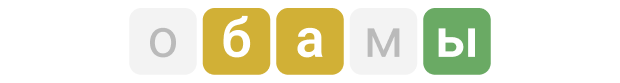
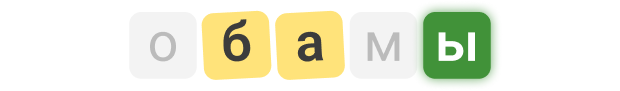
game updates

diff --git a/src/routes/game/data.js b/src/routes/game/data.js
@@ -1,26 +1,32 @@
 export const words = [
   {
     word: 'баллы',
-    desc: 'Проходной балл на бюджетную основу специальности МТИД в 2024 году составил 225 баллов'
+    desc: 'Проходной балл на бюджетную основу специальности МТИД в 2024 году составил 225 баллов',
+    image: '/questions/balls.jpg'
   },
   {
     word: 'дизайн',
-    desc: 'Дизайн - ключевая дисциплина, включающая создание графики, интерфейсов и мультимедийного контента'
+    desc: 'Дизайн — ключевая дисциплина, включающая создание графики, интерфейсов и мультимедийного контента',
+    image: '/questions/design.jpg'
   },
   {
     word: 'сессия',
-    desc: 'Сессия - это период сдачи экзаменов. В ПНИПУ сессия проходит в январе и июне. Успешная сдача экзаменов влияет на стипендию'
+    desc: 'Сессия — это период сдачи экзаменов. В ПНИПУ сессия проходит в январе и июне. Успешная сдача экзаменов влияет на стипендию',
+    image: '/questions/sessia.jpg'
   },
   {
     word: 'куратор',
-    desc: 'Куратор - преподаватель, который помогает студентам в учебном процессе и адаптации'
+    desc: 'Куратор — преподаватель, который помогает студентам в учебном процессе и адаптации',
+    image: '/questions/kurator.jpg'
   },
   {
     word: 'практика',
-    desc: 'Практика - это форма учебной деятельности, которая позволяет студентам получать опыт работы в реальных условиях и развивать профессиональные навыки. Студенты специальности МТИД могут пройти практику в таких организациях как GreenData, RIO Soft, Parma Technologies Group и других ведущих IT-компаниях'
+    desc: 'Практика — это форма учебной деятельности, которая позволяет студентам получать опыт работы в реальных условиях и развивать профессиональные навыки',
+    image: '/questions/praktika.jpg'
   },
   {
     word: 'стипендия',
-    desc: 'Стипендия - это денежное пособие учащимся высшего учебного заведения. Академическая стипендия в ПНИПУ составляет 3 036  рублей, но может повышаться за отличную учебу. Губернаторская стипендия составляет 5 750 рублей'
+    desc: 'Стипендия — это денежное пособие учащимся университета. Академическая стипендия в ПНИПУ — 3 036 рублей, но может повышаться за отличную учёбу. Губернаторская стипендия — 5 750 рублей',
+    image: '/questions/stipendia.jpg'
   }
 ];

diff --git a/src/routes/game/+page.svelte b/src/routes/game/+page.svelte
@@ -4,15 +4,20 @@
 	import kind_cat from '$lib/images/catik.png';
 	import angry_cat from '$lib/images/catik_angry.png';
 
-	import Letter from '../../components/Letter.svelte';
 	import { words } from './data';
+
+	import Letter from '../../components/Letter.svelte';
+	import Toast from '../../components/Toast.svelte';
 
 	import { getContext } from 'svelte';
 	import { confetti } from '@neoconfetti/svelte';
 
 	// задаем базовые значения
-	const alphabet = 'абвгдеёжзийклмнопрстуфхцчшщъыьэюя';
-	const keys = alphabet + alphabet.toUpperCase();
+	const ruAlphabet = 'абвгдеёжзийклмнопрстуфхцчшщъыьэюя';
+	const engAlphabet = 'abcdefghijklmnopqrstuvwxyz';
+	const ruKeys = ruAlphabet + ruAlphabet.toUpperCase();
+	const engKeys = engAlphabet + engAlphabet.toUpperCase();
+	let wrongkeys = $state(false);
 
 	const attempts = 7;
 
@@ -105,10 +110,13 @@
 
 		if (event.metaKey) return;
 
+		wrongkeys = false;
 		if (key === 'Backspace') {
 			guesses[guessIndex] = guesses[guessIndex].slice(0, -1);
-		} else if (keys.includes(key) & (currentGuess.length < wordLength)) {
+		} else if (ruKeys.includes(key) && currentGuess.length < wordLength) {
 			guesses[guessIndex] += key;
+		} else if (engKeys.includes(key)) {
+			wrongkeys = true;
 		}
 	}
 </script>
@@ -119,16 +127,8 @@
 
 <svelte:window onkeydown={keydown} />
 
-{#if won}
-	<div
-		style="position: absolute; left: 50%; top: 30%"
-		use:confetti={{
-			force: 0.7,
-			stageWidth: window.innerWidth,
-			stageHeight: window.innerHeight,
-			colors: ['#ff3e00', '#40b3ff', '#676778']
-		}}
-	></div>
+{#if wrongkeys}
+	<Toast text="Переключите раскладку клавиатуры на русский язык" icon="ℹ" />
 {/if}
 
 <section class="game">
@@ -188,8 +188,25 @@
 	</dialog>
 
 	<dialog class="win" id="win" onclose={next}>
+		{#if won}
+			<div
+				style="position: fixed; left: 50%; top: 30%;"
+				use:confetti={{
+					force: 0.7,
+					stageWidth: window.innerWidth,
+					stageHeight: window.innerHeight,
+					colors: ['#ff3e00', '#40b3ff', '#676778']
+				}}
+			></div>
+		{/if}
 		<div class="win__body">
-			<img src={kind_cat} alt="/" class="win__image" width="410" height="261" />
+			<img
+				src={words[wordIndex].image || win_cat}
+				alt="/"
+				class="win__image"
+				width="400"
+				height="260"
+			/>
 
 			<h3 class="text-h3 win__title">Угадали</h3>
 
@@ -240,5 +257,9 @@
 	.game__row {
 		display: flex;
 		gap: var(--gap);
+	}
+
+	.win__image {
+		border-radius: 16px;
 	}
 </style>

diff --git a/src/components/Header.svelte b/src/components/Header.svelte
@@ -1,13 +1,24 @@
 <script>
+	import { onMount } from 'svelte';
 	import { getContext } from 'svelte';
 
-	const { centered = false } = $props();
-
 	import logo from '$lib/images/logo.svg';
-	import { onMount } from 'svelte';
 
+	const { centered = false } = $props();
 	const level = getContext('level');
+
+	let isFullscreen = $state(false);
+
+	const changeFullscreen = () => {
+		if (isFullscreen) {
+			document.exitFullscreen();
+		} else {
+			document.documentElement.requestFullscreen();
+		}
+	};
 </script>
+
+<svelte:document on:fullscreenchange={() => (isFullscreen = document.fullscreenElement !== null)} />
 
 <header class="header" class:header--center={centered}>
 	<div class="header__title">
@@ -42,19 +53,52 @@
 			</svg>
 		</button>
 	{/if}
+
+	<button
+		class="btn-reset btn btn--icon btn--secondary header__fs-btn"
+		aria-label={isFullscreen ? 'Выйти из полного экрана' : 'Открыть в полный экран'}
+		onclick={changeFullscreen}
+	>
+		{#if isFullscreen}
+			<svg
+				class="icon"
+				xmlns="http://www.w3.org/2000/svg"
+				width="24"
+				height="24"
+				viewBox="0 0 24 24"
+				><path
+					fill="currentColor"
+					d="M6 21v-3H3v-2h5v5zm10 0v-5h5v2h-3v3zM3 8V6h3V3h2v5zm13 0V3h2v3h3v2z"
+				/></svg
+			>
+		{:else}
+			<svg
+				class="icon"
+				xmlns="http://www.w3.org/2000/svg"
+				width="24"
+				height="24"
+				viewBox="0 0 24 24"
+				><path
+					fill="currentColor"
+					d="M3 21v-5h2v3h3v2zm13 0v-2h3v-3h2v5zM3 8V3h5v2H5v3zm16 0V5h-3V3h5v5z"
+				/></svg
+			>
+		{/if}
+	</button>
 </header>
 
 <style>
 	.header {
 		display: flex;
-		justify-content: space-between;
 		padding-inline: 64px;
-		margin-block-start: 48px;
+		margin-block-start: 32px;
+		align-items: center;
 	}
 
 	.header__title {
 		display: flex;
 		align-items: center;
+		margin-right: auto;
 	}
 
 	.header__level {
@@ -66,11 +110,12 @@
 		border-left: 1px solid #e0e0e0;
 	}
 
-	.header--center {
-		align-self: center;
-	}
-
 	.header__logo {
 		object-fit: none;
+	}
+
+	.header__fs-btn {
+		padding: 12px;
+		margin-left: 24px;
 	}
 </style>

diff --git a/src/components/Toast.svelte b/src/components/Toast.svelte
@@ -1,0 +1,44 @@
+<script>
+	import { onDestroy, onMount } from 'svelte';
+
+	let { text, icon } = $props();
+
+	let show = $state(false);
+
+	onMount(() => {
+		setTimeout(() => {
+			show = true;
+		}, 0);
+	});
+</script>
+
+<div class="toast" class:show>
+	<span>{icon}</span>
+	<span>{text}</span>
+</div>
+
+<style>
+	.toast {
+		position: fixed;
+		bottom: 16px;
+		display: flex;
+		align-items: center;
+		gap: 8px;
+		align-self: center;
+		max-width: 600px;
+		border-radius: 16px;
+		padding-block: 16px;
+		padding-inline-start: 16px;
+		padding-inline-end: 24px;
+		font-size: var(--font-sm);
+		background-color: #3c3c3c;
+		z-index: 9999;
+		color: #fff;
+		transform: translateY(calc(100% + 16px));
+		transition: transform 0.15s ease;
+	}
+
+	.toast.show {
+		transform: translateY(0);
+	}
+</style>

diff --git a/src/components/Letter.svelte b/src/components/Letter.svelte
@@ -30,16 +30,24 @@
 
 		&.exact {
 			font-weight: 600;
-			background-color: #6aaa64;
+			background-color: #419239;
 			color: #fff;
-			box-shadow: transparents;
+			box-shadow: 0 0 16px 0 #41923960;
 		}
 
 		&.close {
 			font-weight: 600;
-			background-color: #d1b036;
-			color: #fff;
-			box-shadow: transparents;
+			background-color: #ffe37a;
+			transform: rotate(-4deg);
+			box-shadow: unset;
+
+			&:nth-child(2n) {
+				transform: rotate(3deg);
+			}
+
+			&:nth-child(1n):last-child {
+				transform: rotate(2deg);
+			}
 		}
 
 		&.missing {

diff --git a/src/styles/button.css b/src/styles/button.css
@@ -14,7 +14,7 @@
   display: inline-flex;
   justify-content: center;
   align-items: center;
-  gap: 4px;
+  gap: 8px;
   font-weight: 500;
   font-size: var(--font-primary);
   line-height: 1;
@@ -33,8 +33,6 @@
 .btn--icon {
   .icon {
     --size: 24px;
-
-		margin-left: 4px;
   }
 }
 
